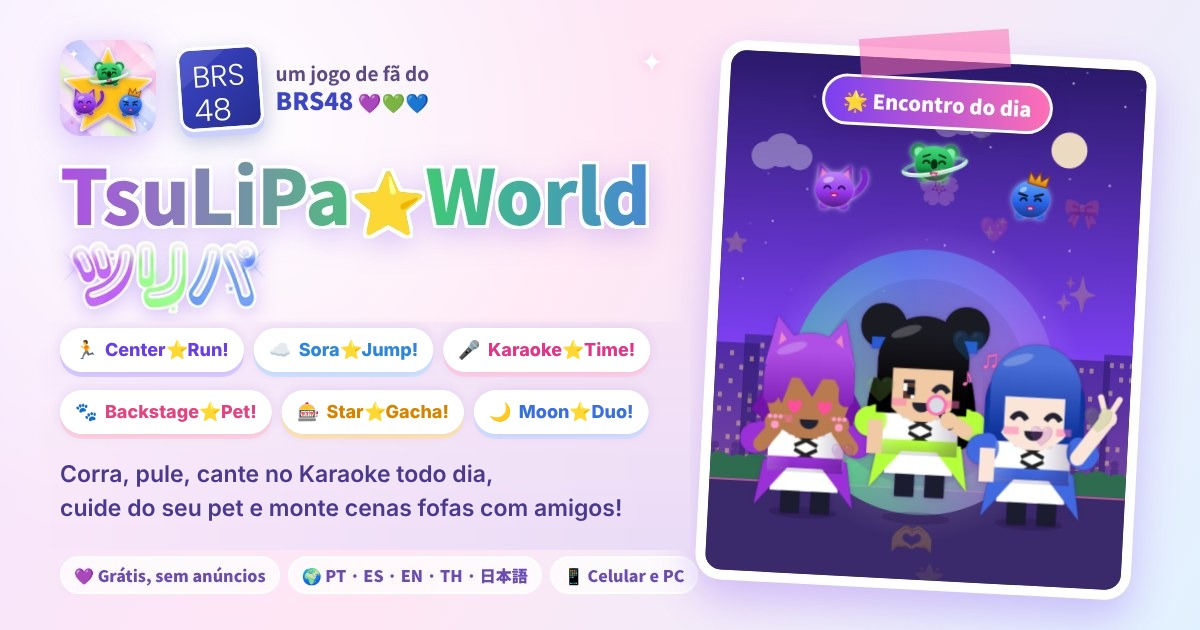
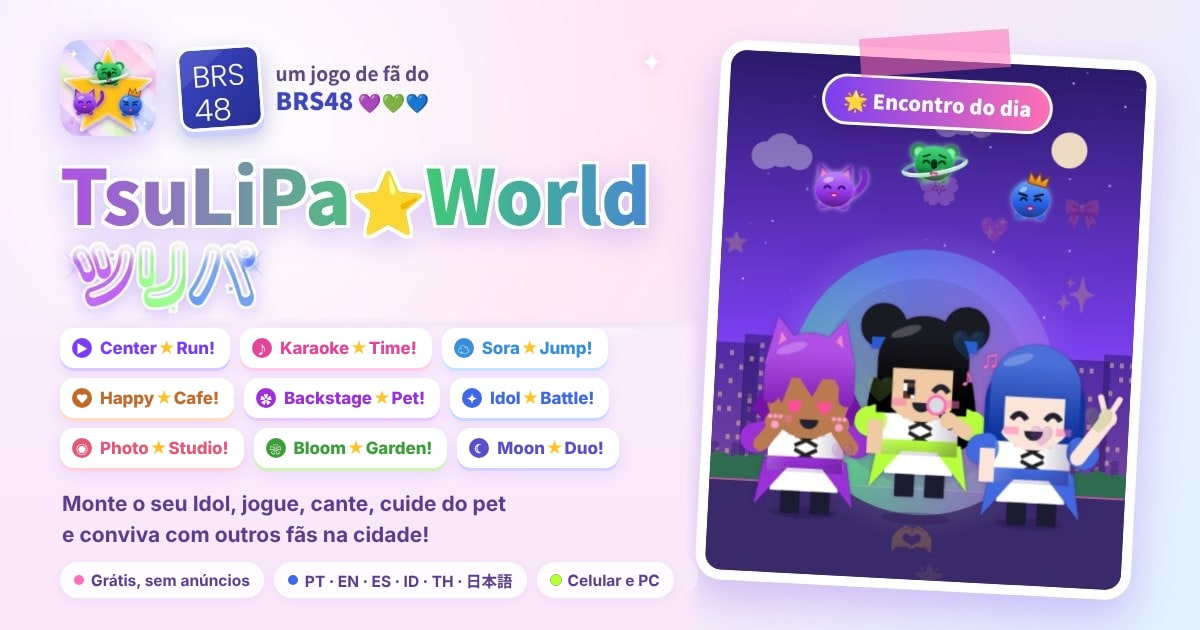
Retomada: prévia de link nova, Humor compacto e cartão do perfil
- og.jpg?v=16: estilo anterior com 9 jogos, frase de convivência e indonésio
- Menu: Humor do Idol compacto (4 barras numa linha)
- Início: cartão "Seu perfil" sem repetir o avatar do topo
- Migração das roupas do Center⭐Run! marcada como aplicada (conferida)
- RETOMADA e diário em dia

Claude-Session: https://claude.ai/code/session_01S3d7J7KmcMA3EiN6vXBDJu

Changed region(s): [[0.0308, 0.5127, 0.555, 0.8746], [0.0617, 0.9048, 0.5858, 0.9349]]

diff --git a/index.html b/index.html
@@ -33,7 +33,7 @@
 <meta property="og:title" content="TsuLiPa⭐World">
 <meta property="og:description" content="Corra no Center⭐Run!, cante no Karaoke⭐Time!, cuide do seu pet, plante flores no Bloom⭐Garden!, monte a foto do dia no Photo⭐Studio! e dispute o Idol⭐Battle! Um jogo de fã do TsuLiPa (BRS48), grátis e sem anúncios.">
 <meta property="og:url" content="https://tsulipa-world.vercel.app/">
-<meta property="og:image" content="https://tsulipa-world.vercel.app/og.jpg?v=15">
+<meta property="og:image" content="https://tsulipa-world.vercel.app/og.jpg?v=16">
 <meta property="og:image:alt" content="TsuLiPa World: o jogo de fã do BRS48 com Tsu, Lirika e Pati, Center⭐Run!, Karaoke⭐Time! e mais.">
 <meta property="og:image:type" content="image/jpeg">
 <meta property="og:image:width" content="1200">
@@ -42,7 +42,7 @@
 <meta name="twitter:card" content="summary_large_image">
 <meta name="twitter:title" content="TsuLiPa⭐World">
 <meta name="twitter:description" content="Corra, cante, plante, fotografe e batalhe com o TsuLiPa: Center⭐Run!, Karaoke⭐Time!, Backstage⭐Pet!, Bloom⭐Garden!, Photo⭐Studio!, Idol⭐Battle! e mais.">
-<meta name="twitter:image" content="https://tsulipa-world.vercel.app/og.jpg?v=15">
+<meta name="twitter:image" content="https://tsulipa-world.vercel.app/og.jpg?v=16">
 <link rel="manifest" href="manifest.json">
 <meta name="google-site-verification" content="J49ekjyq4BDr6eOcluPFBIOG14ahyJAs0NrObrKJqOs" />
 <title>TsuLiPa⭐World</title>
@@ -589,14 +589,14 @@ var jornalCarregar=(function(){
 try{if(q==='1')localStorage.setItem(k,'1');else if(q==='0')localStorage.setItem(k,'0');pref=localStorage.getItem(k);}catch(e){pref=q;}
 on=pref!=='0';
 window.TW_CELULAR_LIGADO=on;
-if(on){document.write('<link rel="stylesheet" href="./tw-celular.css?v=60"><script src="./tw-humor.js?v=10"><'+'/script><script defer src="./tw-bichos.js?v=2"><'+'/script><script src="./tw-bairro.js?v=9"><'+'/script><script defer src="./tw-calendario.js?v=8"><'+'/script><script src="./tw-celular.js?v=73"><'+'/script><script defer src="./tw-presenca.js?v=3"><'+'/script>');}
+if(on){document.write('<link rel="stylesheet" href="./tw-celular.css?v=61"><script src="./tw-humor.js?v=10"><'+'/script><script defer src="./tw-bichos.js?v=2"><'+'/script><script src="./tw-bairro.js?v=9"><'+'/script><script defer src="./tw-calendario.js?v=8"><'+'/script><script src="./tw-celular.js?v=74"><'+'/script><script defer src="./tw-presenca.js?v=3"><'+'/script>');}
 function carregar(){if(window.TW_CELULAR&&window.TW_CELULAR.ligar){window.TW_CELULAR.ligar();return;}
-  var l=document.createElement('link');l.rel='stylesheet';l.href='./tw-celular.css?v=60';document.head.appendChild(l);
+  var l=document.createElement('link');l.rel='stylesheet';l.href='./tw-celular.css?v=61';document.head.appendChild(l);
   var hm=document.createElement('script');hm.src='./tw-humor.js?v=10';hm.async=false;document.body.appendChild(hm);
   var vbi=document.createElement('script');vbi.src='./tw-bichos.js?v=2';vbi.async=false;document.body.appendChild(vbi);
   var vb=document.createElement('script');vb.src='./tw-bairro.js?v=9';vb.async=false;document.body.appendChild(vb);
   var ca=document.createElement('script');ca.src='./tw-calendario.js?v=8';ca.async=false;document.body.appendChild(ca);
-  var s=document.createElement('script');s.src='./tw-celular.js?v=73';s.async=false;document.body.appendChild(s);
+  var s=document.createElement('script');s.src='./tw-celular.js?v=74';s.async=false;document.body.appendChild(s);
   var p=document.createElement('script');p.src='./tw-presenca.js?v=3';document.body.appendChild(p);}
 var TX={pt:'📱 Visual de celular',en:'📱 Phone look',es:'📱 Estilo de celular',id:'📱 Tampilan ponsel',th:'📱 หน้าตาแบบมือถือ',ja:'📱 スマホ表示'};
 var f=window.hubCfgUI;if(typeof f==='function')window.hubCfgUI=function(){var r=f.apply(this,arguments);try{var c=document.getElementById('hubCfg');if(!c)return r;
@@ -3683,7 +3683,7 @@ applyLang();
 </script>
 <script>twLinkInicializar();</script>
 <script>window.TW_EMAIL_MENSAL_DISPONIVEL=false;</script>
-<script defer src="./tw-windows.js?v=3"></script><script defer src="./tw-acessibilidade.js?v=1"></script><script defer src="./tw-semana.js?v=5"></script><script defer src="./tw-pessoal.js?v=8"></script><script defer src="./tw-comunidade.js?v=6"></script><script defer src="./tw-estreia.js?v=2"></script><script defer src="./tw-conquistas.js?v=5"></script><script defer src="./tw-passatempos.js?v=4"></script>
+<script defer src="./tw-windows.js?v=3"></script><script defer src="./tw-acessibilidade.js?v=1"></script><script defer src="./tw-semana.js?v=5"></script><script defer src="./tw-pessoal.js?v=8"></script><script defer src="./tw-comunidade.js?v=6"></script><script defer src="./tw-estreia.js?v=2"></script><script defer src="./tw-conquistas.js?v=6"></script><script defer src="./tw-passatempos.js?v=4"></script>
 <script src="./karaoke-tickets.js?v=2"></script>
 <script>/* Quem abre o site já em outro idioma: alguns textos (rank, itens do Center Run…) eram montados antes de todas as
    traduções entrarem. Depois de tudo carregado, refaz a tela no idioma salvo — o mesmo caminho do botão de idioma. */

diff --git a/tw-celular.css b/tw-celular.css
@@ -460,6 +460,15 @@ body.tw-cel .cmmini.cmprovar[aria-pressed="true"]{border-style:solid!important;b
 .twc-hb-brilho b{background:linear-gradient(90deg,#ffe57a,#ffd23f)}
 .twc-hb-amizade b{background:linear-gradient(90deg,#8fc8ff,#4169e1)}
 .twc-humor-dica{margin:8px 0 0;font-size:12px;font-weight:700;color:#c2367f}
+.twc-humor-mini{margin:8px 0;padding:10px 12px;border-radius:20px}
+.twc-humor-mini .twc-humor-top{margin-bottom:6px}
+.twc-humor-mini .twc-diam{width:14px;height:20px}
+.twc-humor-mini h2{font-size:14px}
+.twc-humor-mini .twc-hbs{grid-template-columns:repeat(4,minmax(0,1fr));gap:4px 8px}
+.twc-humor-mini .twc-hb span{font-size:10.5px;margin-bottom:2px;white-space:nowrap;overflow:hidden;text-overflow:ellipsis}
+.twc-humor-mini .twc-hb i{height:8px}
+.twc-humor-mini details.twc-humor-dica{margin-top:6px}
+.twc-humor-mini details.twc-humor-dica summary{cursor:pointer;min-height:24px}
 .twc-desejo{display:flex;align-items:center;gap:10px;margin-top:12px;padding:10px 12px;border-radius:18px;background:linear-gradient(120deg,#fff4fb,#f3ecff);border:2px dashed #e2ccff}
 .twc-desejo-ok{border-style:solid;border-color:#b6ff3b;background:linear-gradient(120deg,#f4ffe6,#fff4fb)}
 .twc-desejo-ico{font-size:26px;line-height:1}
@@ -1134,9 +1143,10 @@ a.btn#twpBaixar{text-decoration:none}
 .twc-eu-ponto{position:absolute;left:34px;top:2px;width:12px;height:12px;border-radius:50%;background:#ff6fb5;border:2px solid #fff;box-shadow:0 0 0 2px rgba(255,111,181,.25);animation:twqPulso 1.8s ease-in-out infinite}
 @keyframes twqPulso{50%{transform:scale(1.18)}}
 @media (prefers-reduced-motion:reduce){.twc-eu-ponto{animation:none}}
-.twq-cartao{display:flex;align-items:center;gap:12px;width:100%;margin-top:12px;padding:10px 14px 10px 10px;border-radius:20px;background:linear-gradient(120deg,#f6f0ff,#fff0f8);border:2px solid #e0d3ff;box-shadow:0 3px 0 #e0d3ff;text-align:left;color:#3a2470;font:inherit;cursor:pointer}
+.twq-cartao{display:flex;align-items:center;gap:12px;width:100%;margin-top:12px;padding:8px 14px 8px 10px;border-radius:20px;background:linear-gradient(120deg,#f6f0ff,#fff0f8);border:2px solid #e0d3ff;box-shadow:0 3px 0 #e0d3ff;text-align:left;color:#3a2470;font:inherit;cursor:pointer}
 .twq-cartao:active{transform:translateY(2px);box-shadow:0 1px 0 #e0d3ff}
 .twq-av{width:54px;height:54px;flex:0 0 54px;border-radius:50%}
+.twq-c-ico{flex:0 0 40px;width:40px;height:40px;border-radius:50%;display:grid;place-items:center;font-size:20px;color:#fff;background:linear-gradient(135deg,#7b3ff0,#ff6fb5);box-shadow:0 2px 0 rgba(123,63,240,.25)}
 .twq-c-txt{display:flex;flex-direction:column;gap:2px;min-width:0}
 .twq-c-txt b{font-size:15px}
 .twq-c-txt small{font-size:12px;font-weight:700;color:#6b55a8;display:flex;align-items:center;gap:6px;flex-wrap:wrap}

diff --git a/tw-celular.js b/tw-celular.js
@@ -905,9 +905,11 @@
     var e = H.estado(), d = H.desejo(), vip = H.vipHoje();
     var barras = H.barras.map(function(b){ var v = e[b];
       return '<div class="twc-hb twc-hb-' + b + '"><span>' + esc(H.t(b)) + '</span><i role="progressbar" aria-label="' + esc(H.t(b)) + '" aria-valuemin="0" aria-valuemax="100" aria-valuenow="' + v + '"><b style="width:' + v + '%"></b></i></div>'; }).join('');
-    return '<section class="twc-humor" aria-labelledby="twcHumorT"><div class="twc-humor-top"><span class="twc-diam" style="--c:' + e.cor + '" aria-hidden="true"></span><h2 id="twcHumorT">' + esc(H.t('humor')) + '</h2>' +
+    // Menu (semDesejo): versão compacta (23/11, pedido da dona) — as 4 barras numa linha e a explicação dentro do "Como funciona".
+    var intro = '<p class="twc-humor-dica">' + esc(H.t('intro')) + '</p>';
+    return '<section class="twc-humor' + (semDesejo ? ' twc-humor-mini' : '') + '" aria-labelledby="twcHumorT"><div class="twc-humor-top"><span class="twc-diam" style="--c:' + e.cor + '" aria-hidden="true"></span><h2 id="twcHumorT">' + esc(H.t('humor')) + '</h2>' +
       (e.serie > 0 ? '<em class="twc-serie"><span aria-hidden="true">' + ico('chama', 14) + '</span>' + esc(H.t('serie', e.serie)) + '</em>' : '') + '</div>' +
-      '<p class="twc-humor-dica">' + esc(H.t('intro')) + '</p><div class="twc-hbs">' + barras + '</div><details class="twc-humor-dica"><summary>' + esc(H.t('como')) + '</summary>' + H.barras.map(function(b){return '<p><b>' + esc(H.t(b)) + '</b> · ' + esc(H.t(b+'Ajuda')) + '</p>';}).join('') + '<p>' + esc(H.t('efeitos')) + '</p><p>' + esc(H.t('corGuia')) + '</p><p>' + esc(H.t('regra')) + '</p></details>' +
+      (semDesejo ? '' : intro) + '<div class="twc-hbs">' + barras + '</div><details class="twc-humor-dica"><summary>' + esc(H.t('como')) + '</summary>' + (semDesejo ? '<p>' + esc(H.t('intro')) + '</p>' : '') + H.barras.map(function(b){return '<p><b>' + esc(H.t(b)) + '</b> · ' + esc(H.t(b+'Ajuda')) + '</p>';}).join('') + '<p>' + esc(H.t('efeitos')) + '</p><p>' + esc(H.t('corGuia')) + '</p><p>' + esc(H.t('regra')) + '</p></details>' +
       (H.cansado() ? '<p class="twc-humor-dica">' + esc(H.t('cansado')) + '</p>' : '') + (semDesejo ? '</section>' :
       '<div class="twc-desejo' + (d.feito ? ' twc-desejo-ok' : '') + '"><span class="twc-desejo-ico twc-g-' + (COR[desejoIco(d.ev)] || 'rosa') + '" aria-hidden="true">' + ico(d.feito ? 'check' : desejoIco(d.ev), 22) + '</span><span class="twc-desejo-txt"><small>' + esc(H.t('desejo')) + '</small><b>' + esc(d.feito ? H.t('feito') : d.texto) + '</b></span>' +
         (d.feito ? '' : '<button type="button" class="twc-btn twc-desejo-ir" data-desejo="' + esc(d.ev) + '">' + esc(H.rotuloRota(d.ev)) + '</button>') + '</div>' +

diff --git a/sora-jump.html b/sora-jump.html
@@ -28,14 +28,14 @@
 <meta property="og:title" content="TsuLiPa⭐World">
 <meta property="og:description" content="Corra no Center⭐Run!, pule no Sora⭐Jump!, cante no Karaoke⭐Time!, cuide do seu pet, gire o Star⭐Gacha! e monte cenas no Moon⭐Duo! Um jogo do TsuLiPa (BRS48).">
 <meta property="og:url" content="https://tsulipa-world.vercel.app/">
-<meta property="og:image" content="https://tsulipa-world.vercel.app/og.jpg?v=13">
+<meta property="og:image" content="https://tsulipa-world.vercel.app/og.jpg?v=16">
 <meta property="og:image:width" content="1200">
 <meta property="og:image:height" content="630">
 <meta property="og:locale" content="pt_BR">
 <meta name="twitter:card" content="summary_large_image">
 <meta name="twitter:title" content="TsuLiPa⭐World">
 <meta name="twitter:description" content="Corra, pule, cante e cuide do seu pet com o TsuLiPa: Center⭐Run!, Sora⭐Jump!, Karaoke⭐Time!, Backstage⭐Pet!, Star⭐Gacha! e Moon⭐Duo!">
-<meta name="twitter:image" content="https://tsulipa-world.vercel.app/og.jpg?v=13">
+<meta name="twitter:image" content="https://tsulipa-world.vercel.app/og.jpg?v=16">
 <link rel="manifest" href="manifest.json">
 <meta name="google-site-verification" content="J49ekjyq4BDr6eOcluPFBIOG14ahyJAs0NrObrKJqOs" />
 <title>TsuLiPa⭐World — Sora⭐Jump · Segredo do Disco Voador v19</title>

diff --git a/tw-conquistas.js b/tw-conquistas.js
@@ -148,7 +148,7 @@
     var p = dados(); if(!p){ if(logado()) carregar(); return ''; }   // a conta pode entrar depois deste arquivo: carrega na primeira vez que o Início desenha
     var tem = p.insignias || [], px = proximos(p, tem, 1)[0], cp = completo(p), nov = novidade();
     var qtd = {}; tem.forEach(function(x){ qtd[String(x).split(':')[0]] = 1; });
-    return '<button type="button" class="twq-cartao" data-ir="perfil"><canvas class="twc-av twq-av" data-av="1" width="96" height="96" aria-hidden="true"></canvas>' +
+    return '<button type="button" class="twq-cartao" data-ir="perfil"><span class="twq-c-ico" aria-hidden="true">✦</span>' +   // sem o avatar: ele já está no topo do Início (23/11)
       '<span class="twq-c-txt"><b>' + esc(t('seu')) + (nov ? ' <em class="twq-novo">' + esc(t('novo', {txt:nov.txt})) + '</em>' : '') + '</b>' +
       '<small>✦ ' + esc(t('pontos', {n:pontos(tem)})) + ' · ' + esc(t('emblemas', {n:Object.keys(qtd).length})) + '</small>' +
       (px ? '<small class="twq-c-prox">' + esc(px.emo + ' ' + px.nome) + ' ' + barra(px.atual, px.alvo) + ' ' + esc(px.atual + '/' + px.alvo) + '</small>' : '') +

diff --git a/tests/roupas-center-run.test.js b/tests/roupas-center-run.test.js
@@ -23,7 +23,7 @@ assert.equal(R.cr(''), null);
 assert.deepEqual([1, 2, 3, 4, 5].map(n => Object.keys(RECORDE).find(k => R.cr(k).of === n)), ['cr_center', 'cr_solo', 'cr_capitao', 'cr_ace', 'cr_kami'], 'uniformes na ordem dos ranks');
 assert(R.cr('cr_alien').alien, 'Abdução = macacão espacial');
 assert.doesNotMatch(sql, /stars|star_log|preco/i, 'a migração não mexe em estrelas nem em preço');
-assert.match(sql, /Ainda não aplicada/, 'migração marcada como não aplicada');
+assert.match(sql, /Aplicada em produção/, 'migração marcada como aplicada');
 
 // de frente: Fever, Ímã e Mega têm look próprio; nas cores que o Fever e o Ímã dão ao uniforme na corrida
 function fake(){ const log = []; const grad = () => ({ addColorStop(){} }); return { log, fillStyle:'',

diff --git a/tests/menu-atalhos-conferencia.test.js b/tests/menu-atalhos-conferencia.test.js
@@ -90,5 +90,5 @@ test('Camarim VIP sem o diamantinho do humor; o Mapa continua com ele', () => {
 
 test('versões de cache subiram junto', () => {
   const index = ler('index.html');
-  for (const v of ['tw-celular.css?v=60', 'tw-celular.js?v=73', 'tw-bairro.js?v=9', 'tw-comunidade.js?v=6', 'tw-pessoal.js?v=8']) assert.ok(index.includes(v), v);
+  for (const v of ['tw-celular.css?v=61', 'tw-celular.js?v=74', 'tw-bairro.js?v=9', 'tw-comunidade.js?v=6', 'tw-pessoal.js?v=8']) assert.ok(index.includes(v), v);
 });

diff --git a/docs/RETOMADA.md b/docs/RETOMADA.md
@@ -1,6 +1,6 @@
 # Retomada — TsuLiPa⭐World (estado de hoje)
 
-**Atualizado em 22/11/2026 (tarde).** Este é o único documento de estado. Ele diz como o projeto está **agora**; o relato de cada rodada fica no diário ([`historico/diario/2026-11.md`](historico/diario/2026-11.md)).
+**Atualizado em 23/11/2026.** Este é o único documento de estado. Ele diz como o projeto está **agora**; o relato de cada rodada fica no diário ([`historico/diario/2026-11.md`](historico/diario/2026-11.md)).
 
 ## Como atualizar (no mesmo envio de cada PR)
 1. **Onde está:** `main`, PRs abertas e o que foi publicado.
@@ -19,11 +19,9 @@
 - Testes rápidos aqui (`node tests/run-all.js`); os de navegador ficam para o CI, salvo o que a mudança tocou.
 
 ## Onde está
-- **`main`:** `dc9fb3f` (21/11, merge da #129, melhorias). Antes dela: #119 (Início compacto), #118 (estreia no TsuPhone, atividades e pilotos da Rua Fofa), #112 (Encontro do dia sob demanda e esta RETOMADA), #113–#114 (Camarim por conta, foto do Camarim guardada, flores do Bloom no Studio), #115 (Café legível no celular), #116 (piso da sala do Karaoke), #110 (leveza, Karaoke dividido, Duo/admin/bairro sob demanda), #111 (prévia de link).
-- **Outras PRs abertas:** #117 (desfecho e timing), #120 (Rua Fofa e lembranças), #121 (jogabilidade) e #122 (reencontros, pista e fotos) e #123 (cópia do Álbum, foco no Café e teste de card no Battle). A #124 integra #120–#123 e inclui a estreia sem nome, a proteção do Álbum cheio, os novos atalhos de treino e retorno e as melhorias de resultado, leitura e galeria. [Auditoria da integração](qa/auditoria-integracao-2026-11-20.md) · [Sustentabilidade e acabamento](qa/auditoria-sustentabilidade-2026-11-20.md) · [Auditoria visual](qa/auditoria-visual-2026-11-20.md) · [Auditoria das atualizações de 19 e 20/11](qa/auditoria-atualizacoes-19-20-11-2026.md).
-- **Depois da #130 (22/11):** o campo "Seu emoji" não mostra mais o 🎤 de exemplo (parecia escolhido; na conta da dona o emoji estava vazio no servidor), o cartão do Início atualiza ao salvar o perfil e o "Você" de lado (Center⭐Run) ganhou todos os cortes, franjas, detalhes e roupas do editor. Os 9 looks do Center⭐Run! viraram roupas liberadas pelo recorde (`cr_…`), de frente e de lado; a corrida fica de lado também com rank e abdução. [Folhas](qa/lado-20261122/)
-- **#130** (conferência visual, rascunho, branch `fix/conferencia-moon-fotos-20261121`): Moon⭐Duo, assinatura nas fotos, passatempos, perfil/vitrine, mãos do Studio e, em 22/11, a conferência dos atalhos do Menu e a poda decidida pela dona (abaixo). Três commits da rodada de 22/11 (`320f313`, `449e5ba`, `3e73c70`, mais o desta atualização) foram entregues como patch porque a sessão não tinha escrita no repositório. [Conferência](qa/conferencia-130.md)
-- **#125** (Expressão e convivência) tem como base a branch da #124. Os caminhos do Menu, o editor e a Praça têm testes próprios. A suíte principal do GitHub dispara em PRs com destino à main. [Escopo da #125](https://github.com/chumikie/tsulipa-run/pull/125)
+- **`main`:** `ec2ad57` (22/11, merge da #131: Idol de lado completo e looks do Center⭐Run! como roupa). Antes: #130 (conferência visual, poda do Menu, 22/11), #129 (melhorias, 21/11), #127–#128, #126, #124 e #123 (20/11). As #118–#123 entraram pela #124.
+- **Esta rodada (23/11):** prévia de link nova (`og.jpg?v=16`), Humor compacto no Menu, cartão "Seu perfil" do Início sem repetir o avatar e esta RETOMADA em dia. [Conferência](qa/menu-og-20261123/)
+- **PRs abertas (rascunho):** #117 (Bagunça no Idol⭐News! + Karaoke; conflita com a main) e #125 (Expressão e convivência; ver Pendências).
 - **CI (8 jobs):** `static-validation`, `postgres-center-run`, `browser-karaoke`, `browser-telas`, `webkit-continuidade`, `browser-karaoke-room` ×3.
 
 ## O site hoje
@@ -61,12 +59,12 @@ A revisão de jogabilidade traz treino de cabo e caixa de som no Center⭐Run!, 
 | Sistema | Estado | Próximo passo |
 |---|---|---|
 | Mapa (2 níveis) | Ruas vivas: visitas surpresa do trio, bichinhos, Idols online com frases prontas, salas por dentro | — |
-| Vida no bairro (Urbz) | Bagunça da semana (domingo 0h), primeiros dias guiados, falas do trio no Chat; **bicos escondidos** desde a #109 | Capítulo de domingo no Idol⭐News! fechando a bagunça; decidir quando liberar os bicos |
+| Vida no bairro (Urbz) | Bagunça da semana (domingo 0h), primeiros dias guiados, falas do trio no Chat. **Bicos prontos e desligados** (`BICOS = false` em `tw-bairro.js`): a contagem anda por baixo e, sem eles, o gesto da rua se aprende jogando 2 vezes nela | Capítulo de domingo no Idol⭐News! fechando a bagunça; ligar os bicos é trocar uma linha, quando a dona quiser |
 | Humor, Desejo do dia, Camarim VIP | Locais, por conta (#113) | — |
 | Meu Camarim | Decoração, tour de camarins, coração por dia, porta-retrato | — |
 | Encontro do dia | Um Idol (dupla na terça, trio na sexta) dançando com recado; a cena baixa só ao abrir (#112) | — |
 | Idol⭐News! | Pódios e capítulos no domingo, por horário de Brasília. Temporada 1 trancada | Revisão das traduções e OK da Temporada 1 |
-| Calendário, Fichinhas, Álbum | Calendário e fichas para consulta. Ler abre o capítulo exato. Álbum com filtros por origem e edição, fotos fixadas, exportação PNG e cópia JSON | Dia do aniversário da Lirika (ficha diz só "maio") |
+| Calendário, Fichinhas, Álbum | Calendário e fichas para consulta. Ler abre o capítulo exato. Álbum com filtros por origem e edição, fotos fixadas, exportação PNG e cópia JSON. A Lirika fica só com "maio" (decisão da dona, 23/11: sem dia) | — |
 | Você / charmaker | Editor estilo Charat, favoritos, rosto à escolha | — |
 | Admin | Moderação, telemetria, Montar Idol; ferramentas baixam só para admin (#110) | — |
 
@@ -97,23 +95,22 @@ A revisão de jogabilidade traz treino de cabo e caixa de som no Center⭐Run!, 
 
 ## Pendências
 - Publicação do Camarim em duas etapas, com aceite das funções novas, referência de rollback e corte final do crédito legado. [Roteiro de publicação](qa/pilotos-estreia-bairro-karaoke.md#ordem-da-publicação-do-camarim)
-**Do dono**
-- Conferir no celular, depois da #110: Início, show no Karaoke com foto no meio, abrir o Moon⭐Duo!, "Vida no bairro" e aba de moderação na conta admin.
-- Ok do Pati para o visual novo.
-- Dia do aniversário da Lirika.
-- Quando liberar os bicos.
-- Revisão e OK da Temporada 1.
-- Imagem de "Social preview" do GitHub (Settings).
-- Apagar branches antigas (o proxy daqui não deixa).
+**Da dona**
+- Conferir no celular: Início, Menu (Humor compacto), Karaoke com foto no meio, Moon⭐Duo!, "Vida no bairro" e a moderação na conta admin.
+- Se quiser, ligar os bicos (estão prontos, só escondidos).
+- Revisão e OK da Temporada 1 do Idol⭐News!.
+- Imagem de "Social preview" do GitHub: é a figura que aparece quando alguém compartilha o link do **repositório** (github.com/chumikie/tsulipa-run). Não muda o site. Dá para subir a `og.jpg` em Settings → General → Social preview.
+- Apagar branches antigas.
 - Atualizar as instruções do Projeto no claude.ai: ainda falam da PR #58.
 
 **Banco (ChatGPT, com autorização)**
-- Aplicar `supabase/migrations/20261122120000_roupas_center_run.sql` (o admin reconhece as roupas `cr_…`; o jogador já consegue vestir sem ela).
+- ~~Roupas do Center⭐Run! no admin~~ (`20261122120000_roupas_center_run.sql`): aplicada em 22/11, conferida em 23/11.
 - Prêmio dos lightsticks do Battle (`supabase/sql/proposta/20261115_battle_lightsticks_premio.sql`).
 - Roupa como prêmio do nível 3 do bairro.
 
 **Código**
-- #130: aplicar os patches da rodada de 22/11, ver o CI verde e conferir com a conta real a pasta "Mais", o Gacha em Jogos e o Esta semana no Calendário. Ideias em aberto: Humor mais compacto no Menu e o cartão "Seu perfil" do Início (repete o avatar do topo).
+- Conferir com a conta real a pasta "Mais", o Gacha em Jogos e o Esta semana no Calendário (#130).
+- `tests/atalhos-calendario.browser.cjs` falha também na main (espera os atalhos fixados `cafe` e `cal`, que a #130 tirou do Início). Fora do CI; atualizar ou aposentar o teste.
 - A #117 continua separada e conflita com a main. Revisar desfecho, calibração e versões do Jornal em separado dos arquivos de áudio, cuja revisão ficou para depois.
 - Testar a #124 com conta real e conferência no aparelho de login, vitrine, retrospectiva e recompensas semanais. [Pilotos e matriz física do Karaoke](qa/pilotos-estreia-bairro-karaoke.md).
 - Medir em Android e PC reais: o teste aqui roda sem placa de vídeo.

diff --git a/docs/historico/diario/2026-11.md b/docs/historico/diario/2026-11.md
@@ -3,6 +3,17 @@
 Relato detalhado de cada rodada (o mais novo em cima). **Não é o estado atual:** o retrato do presente fica em [`docs/RETOMADA.md`](../../RETOMADA.md).
 Até 18/11/2026 este texto era o próprio `docs/RETOMADA.md`; foi movido sem mudar nada. Daqui em diante, o relato de cada PR entra no topo deste arquivo (ou do arquivo do mês).
 
+## 23/11/2026 — retomada, prévia de link, Humor compacto e cartão do perfil
+
+- Pedido da dona: retomar, fazer tudo o que estava pendente e deixar a prévia de link bonita de novo.
+- **Prévia de link (`og.jpg?v=16`, também no `sora-jump.html`, que estava na v13):** mesmo estilo da anterior (ícone, selo BRS48, título, ツリパ e o trio no Encontro do dia), agora com 9 jogos (entraram Happy⭐Cafe!, Idol⭐Battle!, Photo⭐Studio! e Bloom⭐Garden!), a frase de convivência e o indonésio na lista de idiomas. Antes e depois em `docs/qa/menu-og-20261123/`.
+- **Menu:** o Humor do seu Idol ficou compacto, com as 4 barras numa linha e a explicação dentro de "Como cuidar do Humor". Passou a ocupar 105 px.
+- **Início:** o cartão "Seu perfil" não repete mais o avatar do topo; no lugar, um selo ✦ (`tw-conquistas.js?v=6`, `tw-celular.js?v=74`, `tw-celular.css?v=61`).
+- **Banco:** `20261122120000_roupas_center_run.sql` já estava aplicada (registro 20261122231832). Conferido em 23/11: as duas funções do admin com os `cr_…`, SECURITY DEFINER, anon sem execute e authenticated com execute. Arquivo e RETOMADA marcados.
+- **RETOMADA:** "Onde está" em dia (main `ec2ad57`, só #117 e #125 abertas). O ok do Pati já tinha sido dado; a Lirika fica só com "maio"; os bicos estão prontos e desligados (`BICOS = false`).
+- **Conferido:** suíte 126/126; `telas` e `evolucao` no navegador; capturas a 390 px (claro e escuro) e 1440 px sem erro no console. O `atalhos-calendario` falha igual na main (espera atalhos fixados que a #130 tirou) e fica anotado.
+- **Não testado:** aparelho físico e a prévia no WhatsApp/Discord, que guardam a imagem antiga por um tempo.
+
 ## 22/11/2026 (noite, 3) — brilhinho dos cartões do Início
 
 - A dona pediu: os pontinhos piscando no canto dos cartões do Início (Jogos, Missões, Mapa, Idol⭐News!, Camarim, Calendário) saíram; no PC pareciam sujeira na tela (`tw-celular.js?v=73`).
